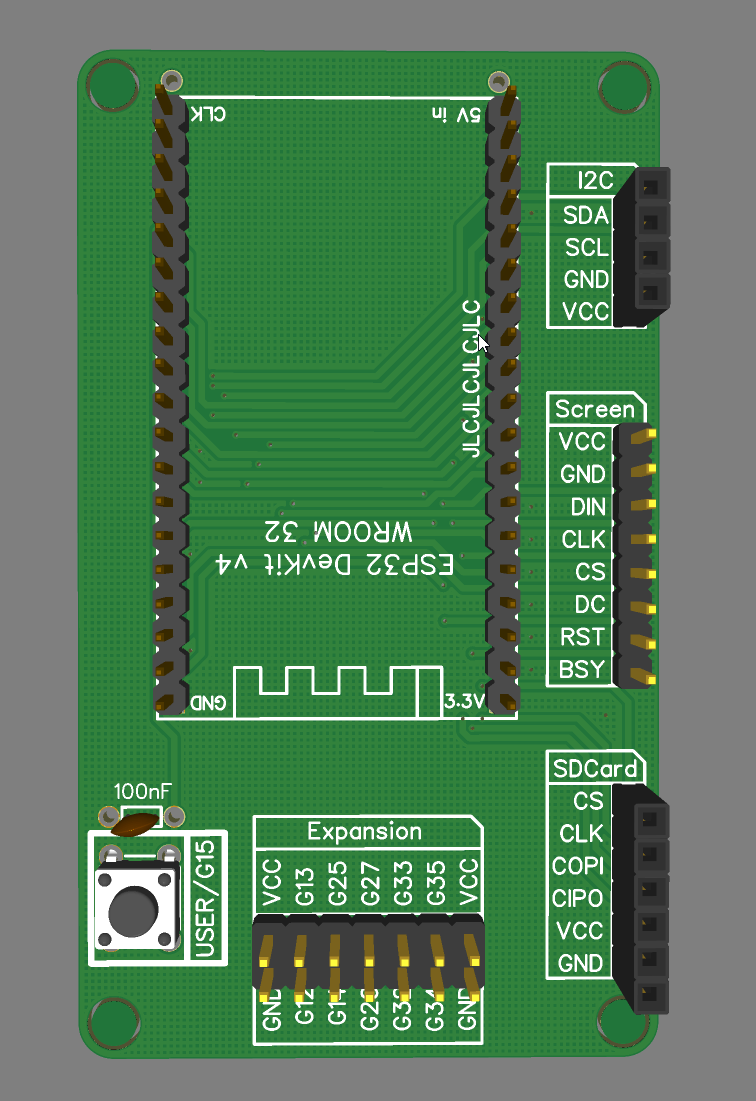
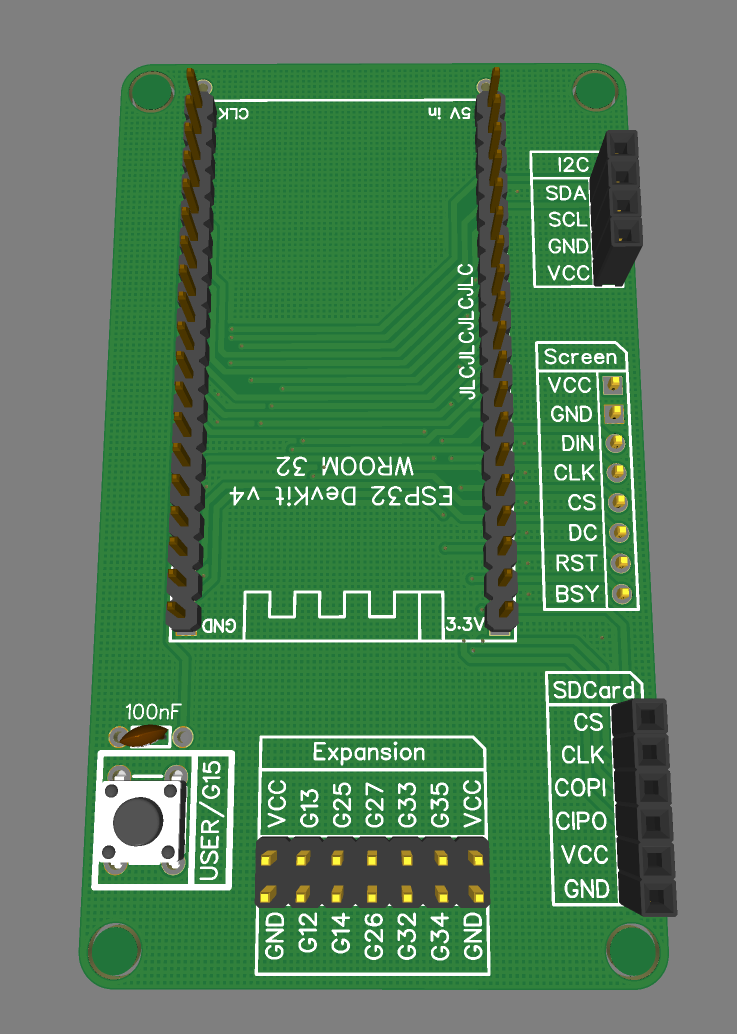
More changes to board description: - Changed render preview for Shield as screen connector was flipped. - Added Changelog and BOM for WROOM - Added description for WROOM in boards README

Changed region(s): [[0.0936, 0.0309, 0.9362, 0.9594]]

diff --git a/Boards/WROOM Board/BOM.md b/Boards/WROOM Board/BOM.md
@@ -1,0 +1,37 @@
+# Bill of Materials for Shield Board
+
+| Schematic Label |  Component | Description | LCSC Part |
+| --- | --- | --- | --- |
+| C1 | 220nF C0805 | | C5378 |
+| C2,C5,C6 | 10nF C0805 | | C1710 |
+| C3,C8,C9,C10,C11,C12,C13,C14 | 100nF C0805 | | C49678 |
+| C4,C7 | 10uF C0805 | | C15850 |
+| D1 | B5819W | Protection diode | C8598 |
+| LED1, LED2 | Red LED0805 | | C84256 |
+| Q1, Q2 | S8050 | NPN Transistors | C2146 |
+| R1,R2,R3 | 10kΩ R0805 | | C17414 |
+| R4,R5,R6,R7,R13 |2k R0805 | | C17604 |
+| R8,R9,R10,R11,R12 | 3.3k R0805 | | C26010 |
+| SW1, SW2, SW3 | PTS645VH39-2LFS | 90º Angle TH Tactile Switch | C221887 |
+| U1 | ESP32-WROOM-32DC | | C473013 |
+| U2 | AMS1117-3.3 | LDO Voltage Regulator | C6186 |
+| U3 | CP2102-GMR | USB-to-UART bridge | C6568 |
+| U4 | SHTC3 | I2C Temperature sensor | C194656 |
+| U5 | SN74LVC125APWR | Bus Transceiver | C7813 |
+| H1,H2 | BBL-108-G-E | Low Profile Male 2.54mm 1x8 Header | Mouser: 200-BBL108GE |
+| H3 | CES-104-02-T-S-RA | Right angle Female 2.54 1x8 Housing | Mouser: 200-SSQ10404SSRA |
+| H4 | SSQ-107-02-T-D-RA | Right angle Female 2.54 2x7 Housing | Mouser: 200-SSQ10702TDRA |
+| USB1 | 10118194-0001LF | Micro USB B Female Connector | C132563 |
+| SDCARD2 | TF-15×15 | MicroSD Housing w/ ejector | C111196 |
+
+
+
+---
+## Notes 
+
+LCSC does not offer low profile Headers, but with normal profile the space between the screen and the board is quite large. I put references for SAMTEC low profile headers, that are not expensive, but any 2.54mm pitch appropiate header can be used without issue.
+
+* H1,H2: Only one is needed (solder the one that matches your preferred board orienation). It is meant to mate with Samtec Low profile Female header SLW-108-01-T-S. 
+* H3: Can be replaced by TSW-104-08-T-S-RA (Right Angle Male Header), Mouser Part: 200-TSW10408TSRA
+* H4: Can be replaced by TSW-107-08-T-D-RA (Right Angle Male Header), Mouser Part: 200-TSW10708TDRA
+

diff --git a/Boards/README.md b/Boards/README.md
@@ -1,14 +1,29 @@
 # About the boards
 
-There are currently two boards: one that uses prefab modules and can be assembled using perfboard, and the other that has roughly the same size as the e-paper module board. Both boards are designed to be connected directly to the screen using the TH pins on the left side of the screen.
-
 ## Shield Board
-![Shield Board](Shield/Render%20Preview.png?v=4&s=200)
+<img src="Shield/Render%20Preview.png" style="float:left; margin-right: 30px;" height="200">
 
+* [Schematics](Shield/Schematics.pdf)
 * [BOM](Shield/BOM.md) 
 * [Changelog](Shield/CHANGELOG.md)
 
+The shield board is designed to be a cheap way of getting the kit ready. All components are cheap, easy to find, and through hole. The board can be ordered at any of your prefered manufacturers for cheap, or can be implemented on perfboard or even mounted on a protoboard (though I cannot recommend this last option).
 
+The board is designed to be mounted behind the E-ink screen and can be held up with M3 nylon stands (though as the board is narrower than the screen, only the rightmost ones will support the board).
 
+---
+
+## WROOM Board
+<img src="WROOM%20Board/Render%20Preview.png" style="float:left; margin-right:30px" height="200">
+
+* [Schematics](WROOM%20Board/Schematics.pdf)
+* [BOM](WROOM%20Board/BOM.md) 
+* [Changelog](WROOM%20Board/CHANGELOG.md)
+
+The WROOM board is designed to be a better looking, integrated version of the Shield board. Functionally they are comparable.
+
+The board is the same size of the e-ink module and is designed to be mounted either using M3 Standoffs, though a 3D printed "sandwich" piece is available on the "/Models" folder, that fits better and has openings for the usual expansions.
+
+The board can be mounted with all components facing forward or with the components hidden behind the screen. The first is easier for hacking and developing, the second is visually more appealing.
 
 

diff --git a/Boards/Shield/BOM.md b/Boards/Shield/BOM.md
@@ -7,12 +7,12 @@
 | Schematic Label | Board Label | Component | Notes | Mouser Ref |
 | --- | --- | --- | --- | --- |
 | H1 | Screen | Male Header 2.54mm pitch 1x8 | Must be mounted pointing below the board | 649-1012937890801BLF |
-| H2 | SDCard | Female Header 2.54mm pitch 1x6 | | 437-3108710641001101 |
-| H3 | I2C | Female Header 2.54mm pitch 1x4 | | 437-3108310441001101 |
-| H4 | Expansion | Female Header 2.54mm pitch 2x7 | Optional | 200-CES10701TD |
+| H2 | SDCard | Female Housing 2.54mm pitch 1x6 | | 437-3108710641001101 |
+| H3 | I2C | Female Housing 2.54mm pitch 1x4 | | 437-3108310441001101 |
+| H4 | Expansion | Female Housing 2.54mm pitch 2x7 | Optional, can be replaced by male header | 200-CES10701TD |
 | USER | USER/G15| 6mm Tactile Button Switch, TH | Optional | 706-95C06B3T |
 | C3 | 100nF | 100nF ceramic capacitor | Optional | 594-K104K15X7RF53H5 |
-| U1 | ESP32 | 2x Female Header 2.54mm pitch 1x19 | 1x19 headers are difficult to find cheap so you can either clip a 1x20 header or solder it completely. I added an extra hole for that. | 437-3108711941001101 |
+| U1 | ESP32 | 2x Female Housing 2.54mm pitch 1x19 | 1x19 housings are difficult to find cheap so you can either clip a 1x20 header or solder it completely. I added an extra hole for that. | 437-3108711941001101 |
 
 ## Mounted on Board
 | Mount Location | Component Description | Where to get it? |

diff --git a/Boards/WROOM Board/CHANGELOG.md b/Boards/WROOM Board/CHANGELOG.md
@@ -1,0 +1,16 @@
+# Changelog:
+**2.2**
+* Reorganized the board layout. 
+  * Now the ESP32 is at the bottom, leaving more space in the top for user-interactive elements.
+  * The buttons are now on the same side of the top, and with added margin to the mounting holes.
+  * The I2C header is now on the top too, as are the leds.
+  * Moved the expansion port to the bottom left of the board, and the SDCard to the bottom right.
+* Made more GPIOs available on the extension header after confirming with the datasheet they did not conflict with flash
+
+**2.1:**
+* Fixed positioning of the front-facing screen header
+* Changed I2C pins as they conflicted with ESP32 flash boot
+* Changed BME680 for SHT3 because for pricing and source code availability reasons
+
+**2.0:**
+* Initial design
